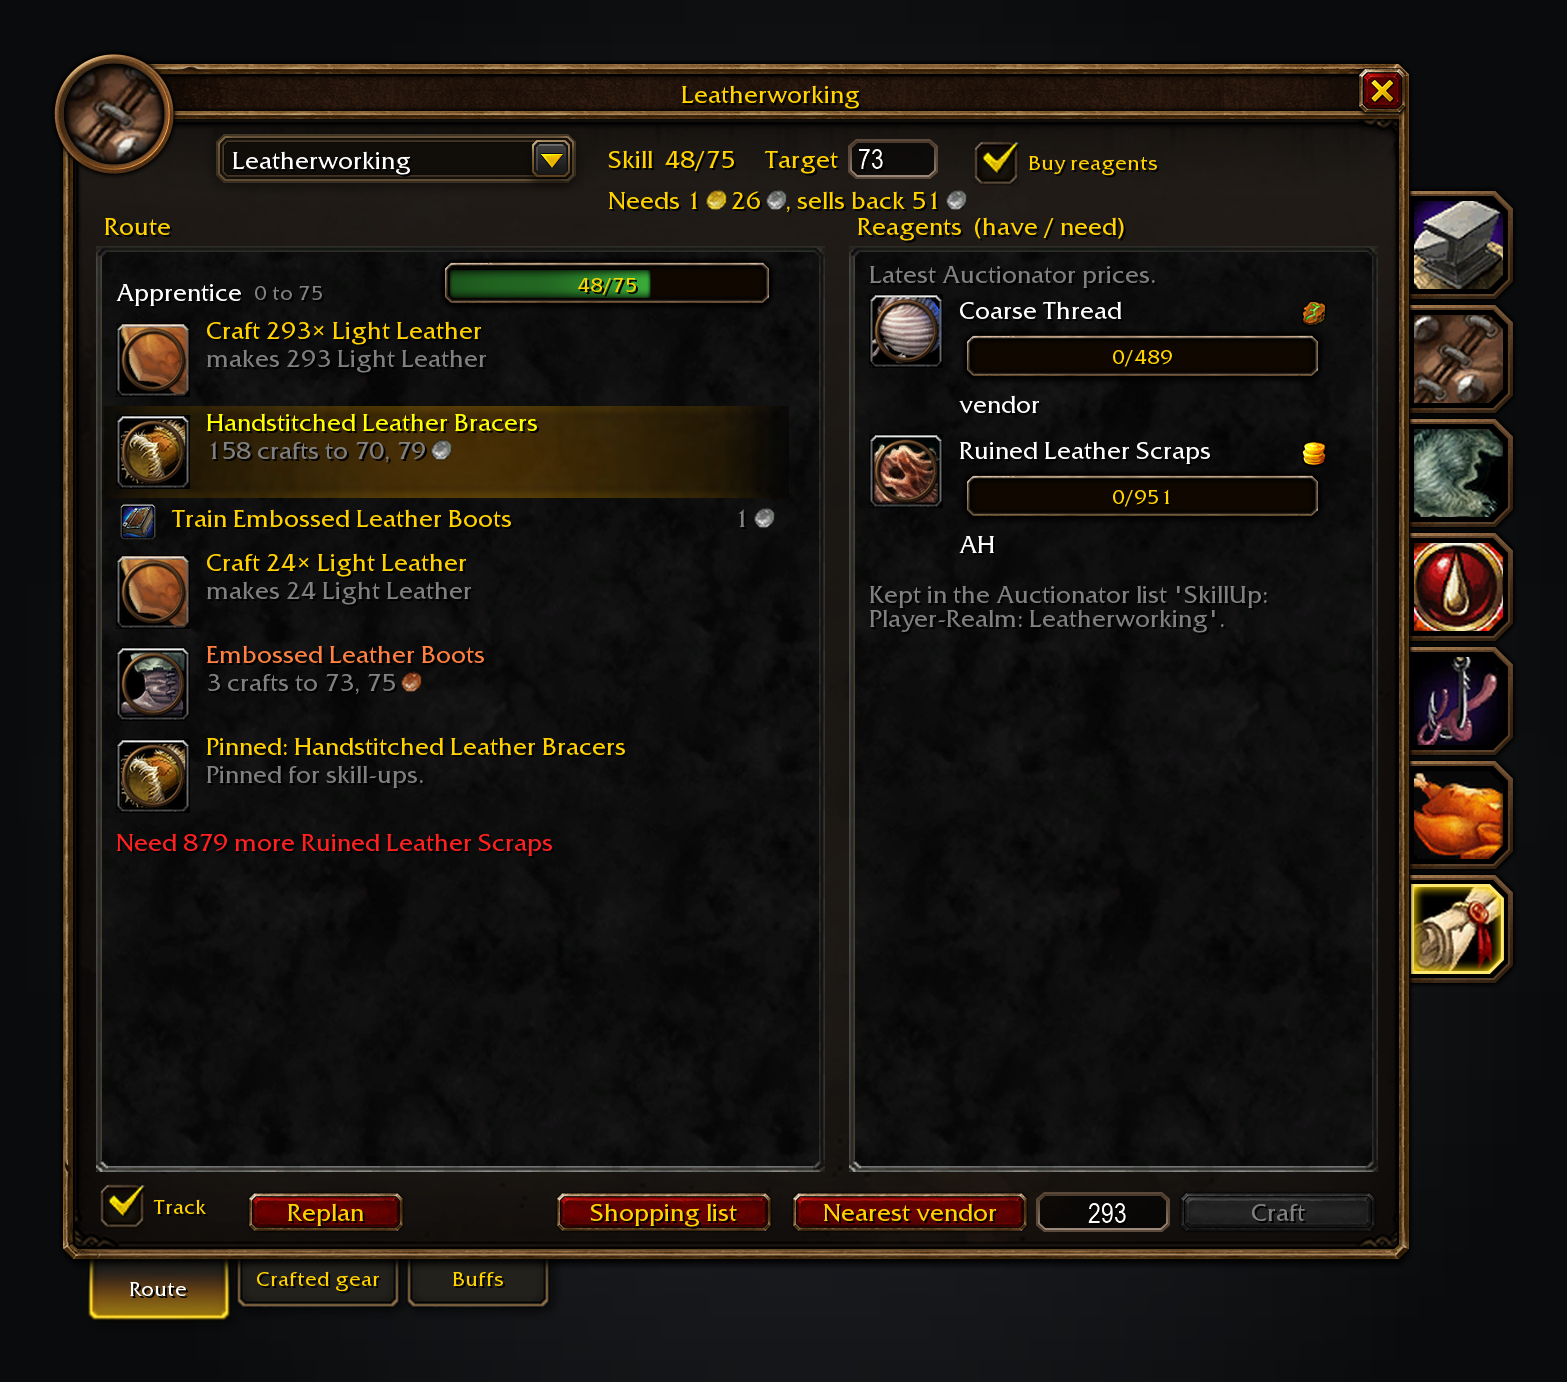
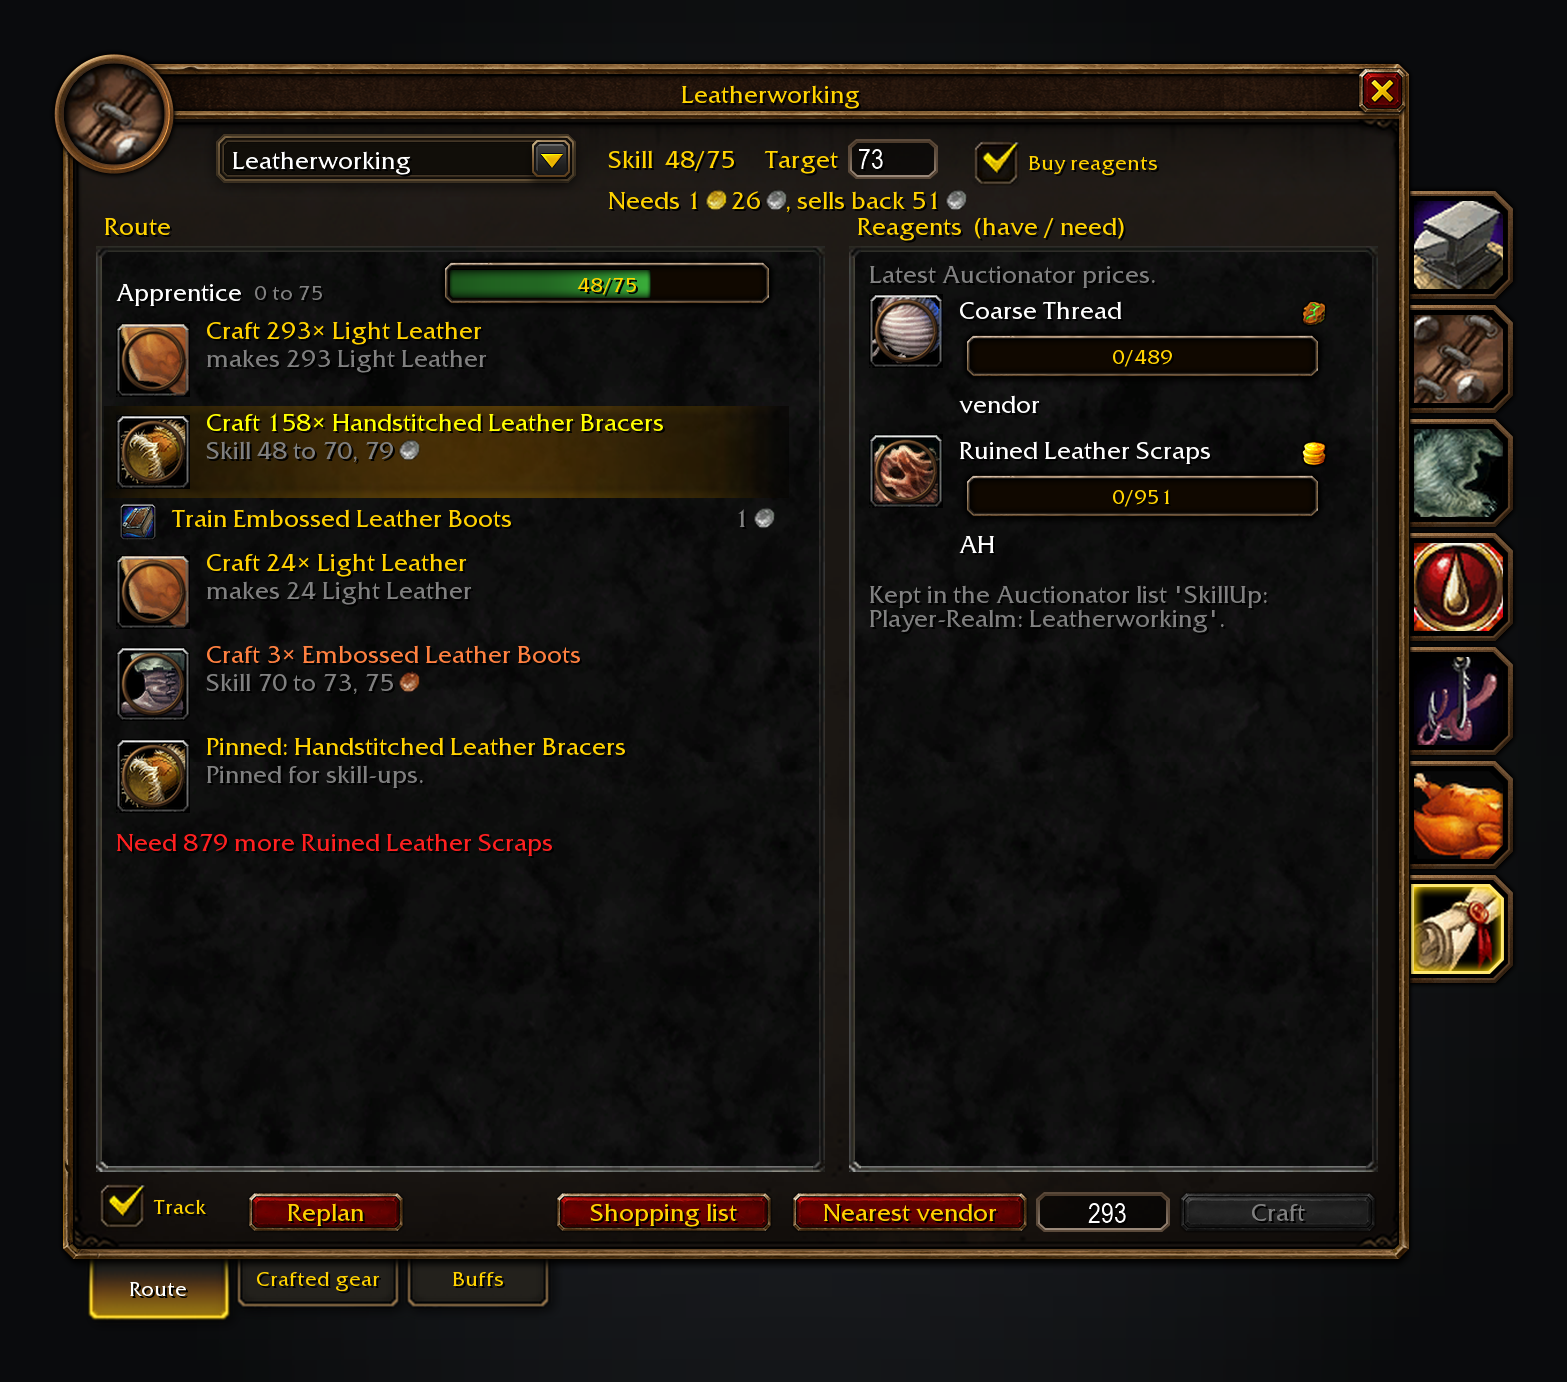
fix(route): lead each step with its craft quantity
Keep the ordered craft list readable by putting quantity and recipe first,
with the skill range, cost and station beneath. Credit codipherus and
refresh all translated phrases and source-backed gallery renders.

Closes #684

Changed region(s): [[0.1225, 0.28, 0.4288, 0.3423], [0.1225, 0.4667, 0.3676, 0.4978]]

diff --git a/README.md b/README.md
@@ -163,7 +163,7 @@ Thresholds come from the game via [wago.tools](https://wago.tools), trainer fees
 
 <!-- forever-credits:start -->
 
-Thanks to kopuliak, bromidious, Mouchoir, Chuujitsuna, sundered1985, trias6657, iPulse, cotijelucie, st3nlee, prokn4h, CtrlDKhayos, davef1n, jugg__, keerp, Diamondclaw, mimmordino, soviman1, Yivry, luna, FreakinNerd, nookie909, vladdoubrov, _spada, SanyaBane, Rambomst, fusionley, ItachiGrave, .phear, Brainc3ll, berserkerlxl, SilentGentlemanSG, BallaRa, kurila11478, Bolthorr, TechnoHunter, Viper2042, Syrberus, zazomazzo, Setuaro, 0xTrk, 3kinex, icouldonlygetthisname, jakeyjake07, Rekalicious, leenagil-coder, Weythx, lokitako, Rawveggie, hardliquor, CodexFD, rockhumper84, Kozoaku, Kirdan, rick1tz, time2w8, ThePNAG, derzwiebelritter, Ekallo, CorvidofShadows13, Sogu, achubbert, jackthereaper_, qwertzyxc and everyone who reported a bug or asked for a feature.
+Thanks to kopuliak, bromidious, Mouchoir, Chuujitsuna, sundered1985, trias6657, iPulse, cotijelucie, st3nlee, prokn4h, CtrlDKhayos, davef1n, codipherus, jugg__, keerp, Diamondclaw, mimmordino, soviman1, Yivry, luna, FreakinNerd, nookie909, vladdoubrov, _spada, SanyaBane, Rambomst, fusionley, ItachiGrave, .phear, Brainc3ll, berserkerlxl, SilentGentlemanSG, BallaRa, kurila11478, Bolthorr, TechnoHunter, Viper2042, Syrberus, zazomazzo, Setuaro, 0xTrk, 3kinex, icouldonlygetthisname, jakeyjake07, Rekalicious, leenagil-coder, Weythx, lokitako, Rawveggie, hardliquor, CodexFD, rockhumper84, Kozoaku, Kirdan, rick1tz, time2w8, ThePNAG, derzwiebelritter, Ekallo, CorvidofShadows13, Sogu, achubbert, jackthereaper_, qwertzyxc and everyone who reported a bug or asked for a feature.
 
 <!-- forever-credits:end -->
 

diff --git a/docs/curseforge.md b/docs/curseforge.md
@@ -92,7 +92,7 @@ With [Shortest Path Forever](https://www.curseforge.com/wow/addons/shortest-path
 
 <!-- forever-credits:start -->
 
-Thanks to kopuliak, bromidious, Mouchoir, Chuujitsuna, sundered1985, trias6657, iPulse, cotijelucie, st3nlee, prokn4h, CtrlDKhayos, davef1n, jugg__, keerp, Diamondclaw, mimmordino, soviman1, Yivry, luna, FreakinNerd, nookie909, vladdoubrov, _spada, SanyaBane, Rambomst, fusionley, ItachiGrave, .phear, Brainc3ll, berserkerlxl, SilentGentlemanSG, BallaRa, kurila11478, Bolthorr, TechnoHunter, Viper2042, Syrberus, zazomazzo, Setuaro, 0xTrk, 3kinex, icouldonlygetthisname, jakeyjake07, Rekalicious, leenagil-coder, Weythx, lokitako, Rawveggie, hardliquor, CodexFD, rockhumper84, Kozoaku, Kirdan, rick1tz, time2w8, ThePNAG, derzwiebelritter, Ekallo, CorvidofShadows13, Sogu, achubbert, jackthereaper_, qwertzyxc and everyone who reported a bug or asked for a feature.
+Thanks to kopuliak, bromidious, Mouchoir, Chuujitsuna, sundered1985, trias6657, iPulse, cotijelucie, st3nlee, prokn4h, CtrlDKhayos, davef1n, codipherus, jugg__, keerp, Diamondclaw, mimmordino, soviman1, Yivry, luna, FreakinNerd, nookie909, vladdoubrov, _spada, SanyaBane, Rambomst, fusionley, ItachiGrave, .phear, Brainc3ll, berserkerlxl, SilentGentlemanSG, BallaRa, kurila11478, Bolthorr, TechnoHunter, Viper2042, Syrberus, zazomazzo, Setuaro, 0xTrk, 3kinex, icouldonlygetthisname, jakeyjake07, Rekalicious, leenagil-coder, Weythx, lokitako, Rawveggie, hardliquor, CodexFD, rockhumper84, Kozoaku, Kirdan, rick1tz, time2w8, ThePNAG, derzwiebelritter, Ekallo, CorvidofShadows13, Sogu, achubbert, jackthereaper_, qwertzyxc and everyone who reported a bug or asked for a feature.
 
 <!-- forever-credits:end -->
 

diff --git a/CHANGELOG.md b/CHANGELOG.md
@@ -12,6 +12,8 @@ optional `### For addon authors` subsection after a version's player bullets.
 
 ## [Unreleased]
 
+- **The route spells out what to craft in order.** Each craft step leads with its quantity and recipe, with its skill range, cost and station underneath. Thanks to codipherus for the report (#684).
+
 - **Unlearned recipes have their own order.** Sort them by required skill or newest first while learned recipes keep your chosen order. Thanks to davef1n for the idea (#720).
 - **Recipe tooltips show TSM regional sales per day when available.** The figure is the average sold per auction house in your region, alongside the craft's sale values and profit. Thanks to davef1n for the idea (#721).
 

diff --git a/THIRD_PARTY.md b/THIRD_PARTY.md
@@ -44,6 +44,7 @@ Credit for the reports and requests behind the addon.
 | Who | What | Notes |
 |---|---|---|
 | davef1n | Separate unlearned recipe order and regional sales volume | CurseForge; thread 8715846; #720; #721 |
+| codipherus | Craft quantities lead each route step | CurseForge; thread 8702620; #684 |
 | sundered1985 | Vendor and auction profit on the recipe tooltip | CurseForge; #678; thread 8701206 |
 | jugg__ | Vendor and auction profit on the recipe tooltip | Discord; #678 |
 | keerp | Choose Auctionator or TradeSkillMaster for prices | CurseForge; #675; thread 8700437 |
